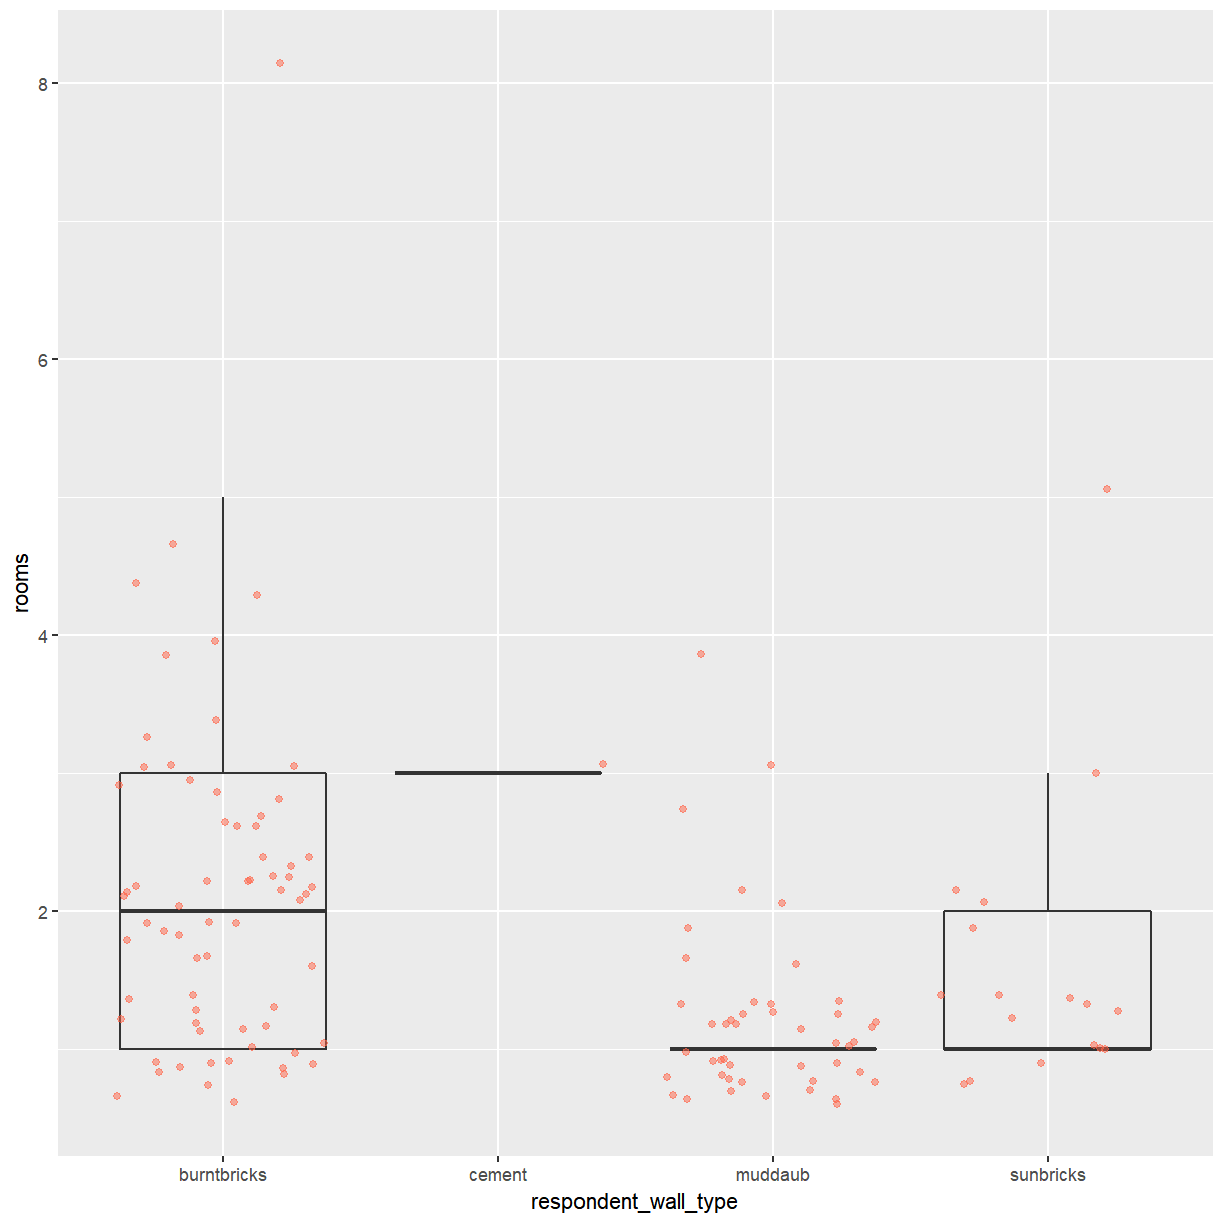
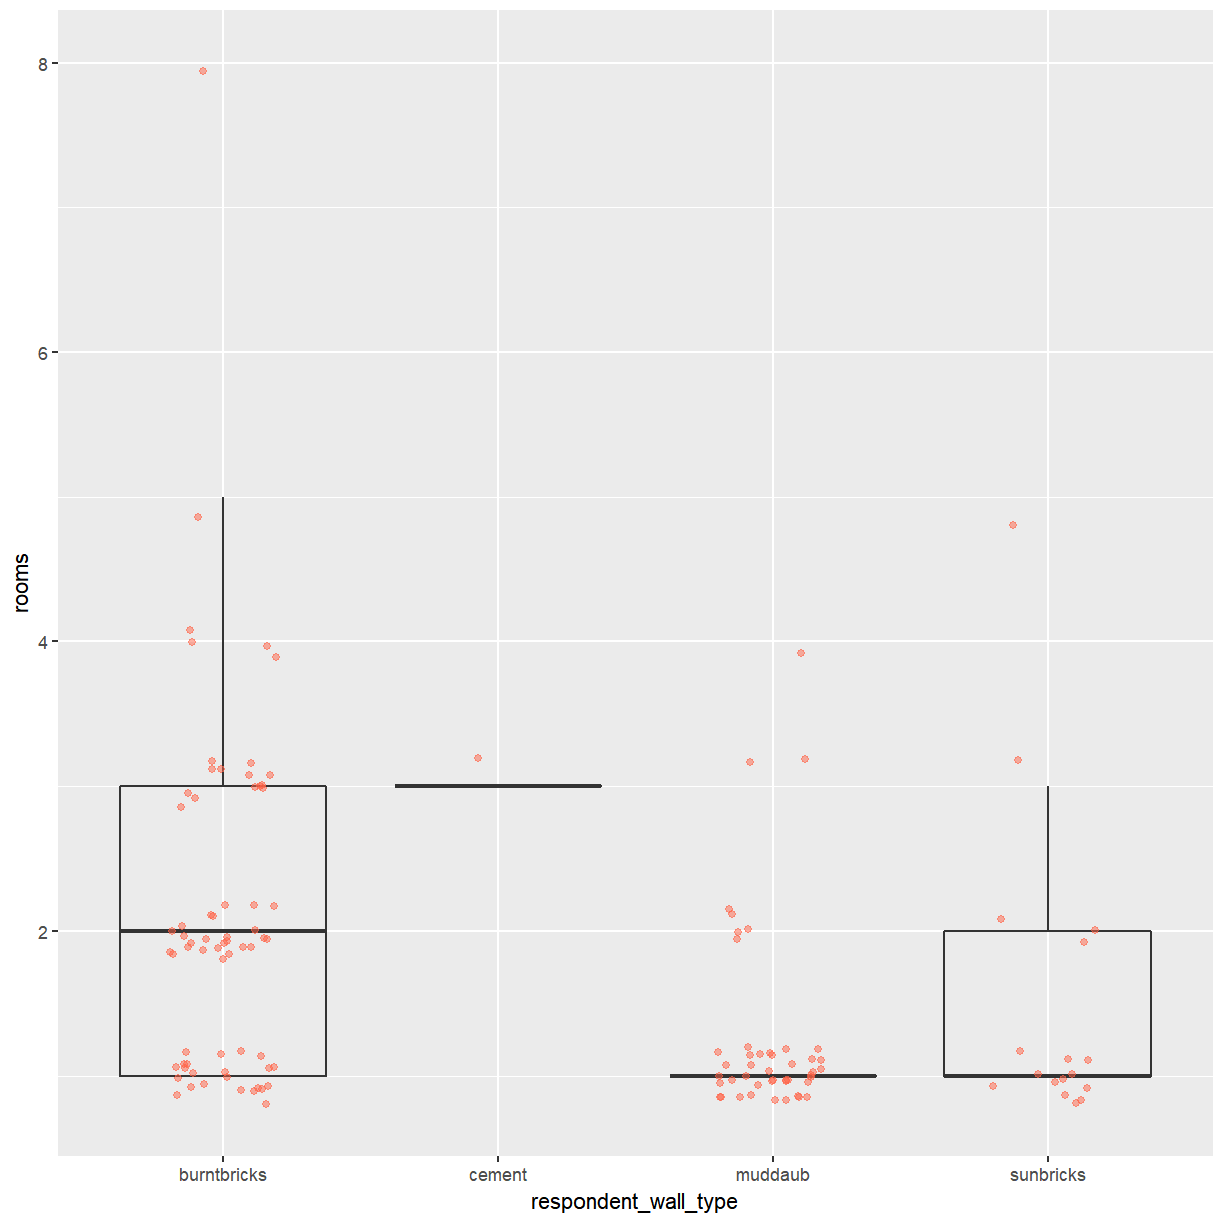
Add boxplots

diff --git a/_episodes/02-categorical-data.md b/_episodes/02-categorical-data.md
@@ -213,7 +213,10 @@ ggplot(data = interviews_plotting, aes(x = respondent_wall_type, fill = village)
 
 ## Boxplot
 
-We can use boxplots to visualize the distribution of rooms for each
+In an aerlier lesson you've used density plots to examine the differences in the distribution of 
+a continuous variable across different levels of a categorical variable. That can work fine for
+two or three categories but quickly becomes hard to read. Boxplots are much better suited to visualize
+of a variable across several categories. Let's look at a boxplot of the distribution of rooms for each
 wall type:
 
 
@@ -225,6 +228,22 @@ ggplot(data = interviews_plotting, aes(x = respondent_wall_type, y = rooms)) +
 
 <img src="../fig/rmd-02-boxplot-1.png" title="plot of chunk boxplot" alt="plot of chunk boxplot" width="612" style="display: block; margin: auto;" />
 
+This is not bad, but because boxplots focus on displaying summary statistics a lot of 
+information is lost. 
+
+> ## Exercise
+> 
+> Consider the *cement* buildings in the boxplot above. Judging from
+> this plot alone, can you tell how many buildings with cement walls there
+> are in the dataset?
+>
+> > ## Solution
+> >
+> > From the plot it appears that all buildings with cement walls have three rooms
+> > but there is no way to tell whether there is 1 or 20 of them.
+> {: .solution}
+{: .challenge}
+
 By adding points to a boxplot, we can have a better idea of the number of
 measurements and of their distribution:
 
@@ -232,7 +251,7 @@ measurements and of their distribution:
 ~~~
 ggplot(data = interviews_plotting, aes(x = respondent_wall_type, y = rooms)) +
     geom_boxplot(alpha = 0) +
-    geom_jitter(alpha = 0.5, color = "tomato")
+    geom_jitter(alpha = 0.5, width = 0.2, height = 0.2, color = "tomato")
 ~~~
 {: .language-r}
 
@@ -247,26 +266,6 @@ hidden?
 
 > ## Exercise
 >
-> Boxplots are useful summaries, but hide the *shape* of the distribution. For
-> example, if the distribution is bimodal, we would not see it in a
-> boxplot. An alternative to the boxplot is the violin plot, where the shape
-> (of the density of points) is drawn.
->
-> - Replace the box plot with a violin plot; see `geom_violin()`.
-> 
-> > ## Solution
-> >
-> > 
-> > ~~~
-> > ggplot(data = interviews_plotting, aes(x = respondent_wall_type, y = rooms)) +
-> >   geom_violin(alpha = 0) +
-> >   geom_jitter(alpha = 0.5, color = "tomato")
-> > ~~~
-> > {: .language-r}
-> > 
-> > <img src="../fig/rmd-02-violin-plot-1.png" title="plot of chunk violin-plot" alt="plot of chunk violin-plot" width="612" style="display: block; margin: auto;" />
-> {: .solution}
->
 > So far, we've looked at the distribution of room number within wall type. Try
 > making a new plot to explore the distribution of another variable within wall
 > type.
@@ -279,7 +278,7 @@ hidden?
 > > ~~~
 > > ggplot(data = interviews_plotting, aes(x = respondent_wall_type, y = liv_count)) +
 > >   geom_boxplot(alpha = 0) +
-> >   geom_jitter(alpha = 0.5)
+> >   geom_jitter(alpha = 0.5, width = 0.2, height = 0.2)
 > > ~~~
 > > {: .language-r}
 > > 
@@ -292,13 +291,50 @@ hidden?
 > > ## Solution
 > > 
 > > ~~~
-> > ggplot(data = interviews_plotting, aes(x = respondent_wall_type, y = liv_count)) +
+> > ggplot(data = interviews_plotting, aes(x = respondent_wall_type, y = liv_count, color = memb_assoc)) +
 > >   geom_boxplot(alpha = 0) +
-> >   geom_jitter(aes(color = memb_assoc), alpha = 0.5)
+> >   geom_jitter(, alpha = 0.5, width = 0.2, height = 0.2)
 > > ~~~
 > > {: .language-r}
 > > 
 > > <img src="../fig/rmd-02-boxplot-exercise-factor-1.png" title="plot of chunk boxplot-exercise-factor" alt="plot of chunk boxplot-exercise-factor" width="612" style="display: block; margin: auto;" />
+> {: .solution}
+{: .challenge}
+
+In the boxplot you created during the exercise above you used different colored points
+to highlight groupings according to a second categorical variable. A better way to
+compare these categories is to add more boxes to the plot.
+
+
+~~~
+ggplot(data = interviews_plotting, aes(x = respondent_wall_type, y = liv_count, fill = memb_assoc, color = memb_assoc)) +
+  geom_boxplot(alpha = 0.5) +
+  geom_point(alpha = 0.5, position = position_jitterdodge(jitter.width = 0.1, jitter.height = 0.1))
+~~~
+{: .language-r}
+
+<img src="../fig/rmd-02-boxplot-two-factor-1.png" title="plot of chunk boxplot-two-factor" alt="plot of chunk boxplot-two-factor" width="612" style="display: block; margin: auto;" />
+
+> ## Exercise
+>
+> Boxplots are useful summaries, but hide the *shape* of the distribution. For
+> example, if the distribution is bimodal, we would not see it in a
+> boxplot. An alternative to the boxplot is the violin plot, where the shape
+> (of the density of points) is drawn.
+>
+> - Replace the box plot of rooms by wall type with a violin plot; see `geom_violin()`.
+> 
+> > ## Solution
+> >
+> > 
+> > ~~~
+> > ggplot(data = interviews_plotting, aes(x = respondent_wall_type, y = rooms)) +
+> >     geom_violin(alpha = 0) +
+> >     geom_jitter(alpha = 0.5, width = 0.2, height = 0.2, color = "tomato")
+> > ~~~
+> > {: .language-r}
+> > 
+> > <img src="../fig/rmd-02-violin-plot-1.png" title="plot of chunk violin-plot" alt="plot of chunk violin-plot" width="612" style="display: block; margin: auto;" />
 > {: .solution}
 {: .challenge}
 
